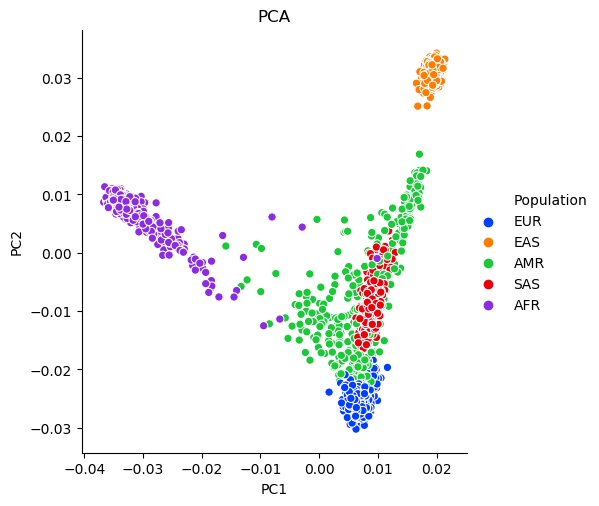
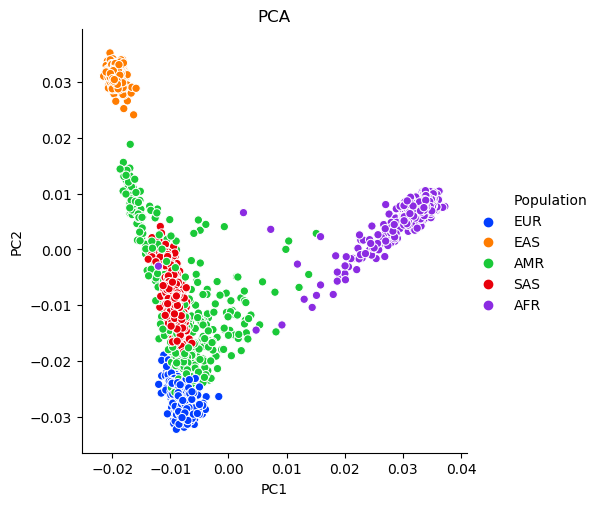
Bug correction

diff --git a/impute_ancestry.py b/impute_ancestry.py
@@ -72,11 +72,11 @@ def compute_ethnicity(settings):
 
     # Get PCA from 1000 Genome and compute average by etnicity
     mu_eth = pd.DataFrame()
-    PCA_genome = PCA[PCA.IID.isin(thougen_ethn.Sample)]
+    PCA_genome = PCA[PCA.IID.isin(thougen_ethn.IID)]
     for eth in thougen_ethn.Population.unique():
 
         # Get PCAs from ethnicity
-        PCA_eth = PCA_genome[PCA_genome.IID.isin(thougen_ethn[thougen_ethn.Population.eq(eth)].Sample)]
+        PCA_eth = PCA_genome[PCA_genome.IID.isin(thougen_ethn[thougen_ethn.Population.eq(eth)].IID)]
 
         # Compute mean of PC1 and PC2
         PC1_mu, PC2_mu = PCA_eth.PC1.mean(), PCA_eth.PC2.mean()
@@ -85,8 +85,8 @@ def compute_ethnicity(settings):
         mu_eth[eth] = [PC1_mu, PC2_mu]
 
     # Initialize for loop
-    PCA_subj = PCA[~PCA.IID.isin(thougen_ethn.Sample)]
-    subj_eth = pd.DataFrame(columns= ["FID", "IID", "ethnicity"])
+    PCA_subj = PCA[~PCA.IID.isin(thougen_ethn.IID)]
+    subj_eth = pd.DataFrame(columns= ["FID", "IID", "Population"])
     for idx, value in PCA_subj.iterrows():
 
         # Compute Eucliden distance to each ethnicity 
@@ -98,10 +98,10 @@ def compute_ethnicity(settings):
 
         # Append ethnicity
         subj_eth = subj_eth.append(pd.DataFrame({"FID": [value.FID], "IID": [value.IID], \
-                "ethnicity": [mu_eth.columns[dist_subj_eth.index(min(dist_subj_eth))]]}), ignore_index=True)
+                "Population": [mu_eth.columns[dist_subj_eth.index(min(dist_subj_eth))]]}), ignore_index=True)
 
     # Write ethnicity
-    subj_eth.to_csv(settings.Resources.data_ethnicity, sep = ",", header=True)
+    subj_eth.to_csv(settings.Resources.data_ethnicity, sep = ",", header = True, index = False)
 
 
 def plot_pca(settings):
@@ -114,17 +114,16 @@ def plot_pca(settings):
 
     # Read PCs
     PCA = pd.read_csv(settings.Resources.PCA_eigenvec, header = None, delim_whitespace = True)
-    PCA.columns = ['FID', 'Sample'] + ['PC' + str(x) for x in range(1,21)]
+    PCA.columns = ['FID', 'IID'] + ['PC' + str(x) for x in range(1,21)]
 
     # Read Ethnicity and concat
     thougen_ethn = pd.read_csv(settings.Resources.thougen_ethnicity, header = 0)
     data_ethn = pd.read_csv(settings.Resources.data_ethnicity, header = 0)
-    ethnicity = pd.concat([thougen_ethn, data_ethn], ignore_index=True, sort = False)
+    ethnicity = pd.concat([thougen_ethn, data_ethn[["IID", "Population"]]], ignore_index=True, sort = False)
 
     # Merge with PCA
-    PCA = pd.merge(PCA, ethnicity[['Sample', 'Population']], on='Sample')
-    PCA = PCA[PCA.Sample.isin(thougen_ethn.Sample)]
-
+    PCA = pd.merge(PCA, ethnicity[['IID', 'Population']], on='IID')
+    
     # Plot PCs
     sns.color_palette("tab10")
     ax = sns.relplot(data=PCA, x = 'PC1', y = 'PC2', hue = "Population", \
@@ -139,11 +138,11 @@ def main():
     # Read settings
     settings = pd.read_json("settings.json")
 
-    # Merge data with CHR of 1000 Genome
-    merge_data(settings)
+    # # Merge data with CHR of 1000 Genome
+    # merge_data(settings)
 
-    # Compute PCA
-    compute_pca(settings)
+    # # Compute PCA
+    # compute_pca(settings)
 
     # Compute etnicities
     compute_ethnicity(settings)

diff --git a/README.md b/README.md
@@ -1,5 +1,12 @@
-# ancestry_imputation
-Imputation of ancestry based on PCA and 1000 Genome imputation 
+# Anecstry Imputation
 
-Having problems with push
 
+## Introduction 
+This repository attempts to impute the ethnicity provided a set of binary PLINK files. It utilizes the [1000 Genomes Phase 3 Data](https://www.internationalgenome.org/data) and its [Associated Data](ftp://ftp.1000genomes.ebi.ac.uk/vol1/ftp/phase3). 
+
+Nonetheless, the 1000 Genome Data was Quality Controlled (QC) prior to be used in this repository, removing multiallelic variants. The data can be request to [Aditya Ambassi](https://github.com/adiamb) - otherwise, please proceed to download the 1000 Genomes variants data and perform a QC routine to remove undesired and multiallelic variants.
+
+## Pipeline
+
+The pipeline is composed by three main steps:
+1. **Merge**: common Single Nucleotides Polymorphisms (SNP) are parsed in chromosome 2 and 3, and the data provided is merged with the 1000 Genomes variants data.
